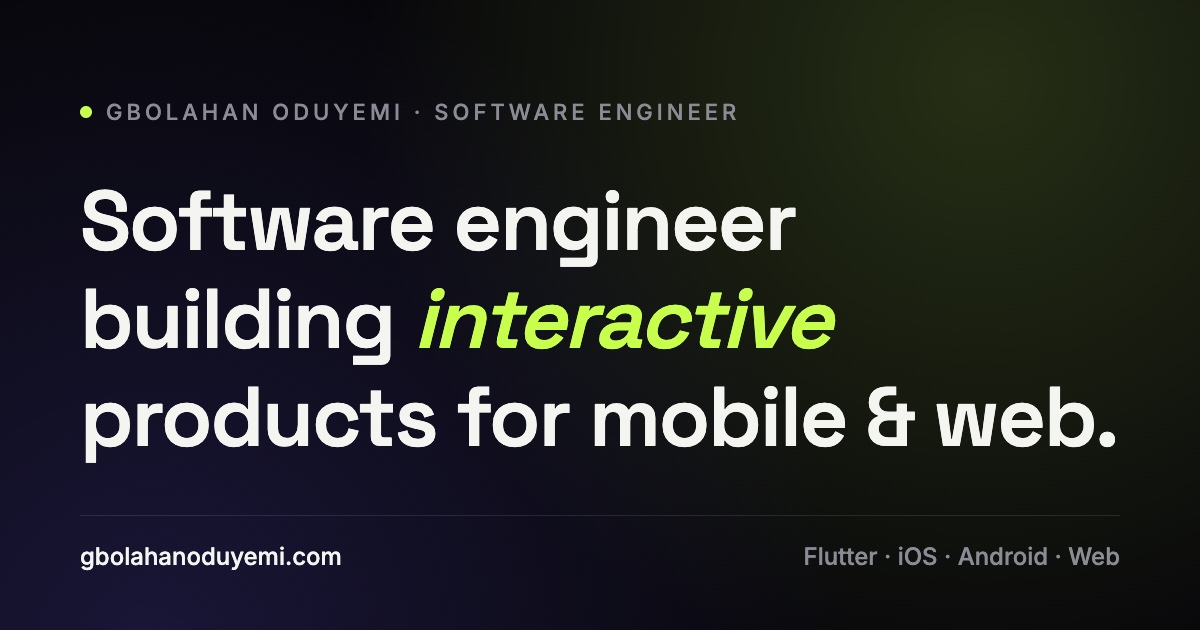
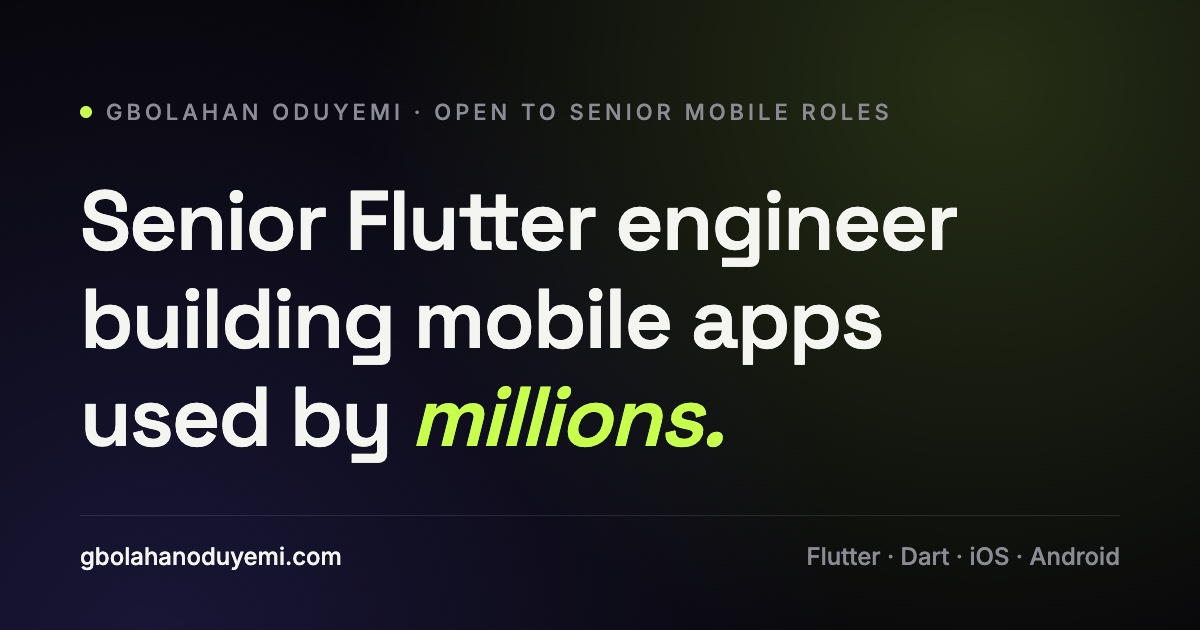
Position as senior Flutter engineer, lead with EE app, add hiring details
- Rework hero, meta and Open Graph copy around senior Flutter/mobile
- Add the EE app (BT Group) as the first project; skip hover preview
  for projects without an image
- Add role, location and working-pattern details plus email and
  LinkedIn buttons to the contact section
- Regenerate share image with the new headline

diff --git a/index.html b/index.html
@@ -7,29 +7,29 @@
     <!-- Lets CSS hide content for reveal animations only when JS runs. -->
     <script>document.documentElement.classList.add("js");</script>
 
-    <title>Gbolahan Oduyemi, Software Engineer</title>
+    <title>Gbolahan Oduyemi, Senior Flutter &amp; Mobile Engineer</title>
     <meta
       name="description"
-      content="Gbolahan Oduyemi is a software engineer at BT Group building interactive products for mobile and web. 6+ years across Flutter, Dart, React, Vue and GraphQL."
+      content="Gbolahan Oduyemi is a senior Flutter and mobile engineer at BT Group, building the EE app (10M+ downloads). 6+ years shipping fintech, telecoms and HR products with Flutter, Dart, Bloc and GraphQL."
     />
     <meta
       name="keywords"
-      content="Gbolahan Oduyemi, software engineer, frontend engineer, mobile developer, Flutter, Swift, TypeScript, React"
+      content="Gbolahan Oduyemi, senior Flutter engineer, mobile engineer, Flutter developer, Dart, iOS, Android, Bloc, Birmingham"
     />
     <link rel="canonical" href="https://gbolahanoduyemi.com/" />
 
     <!-- Open Graph -->
     <meta property="og:type" content="website" />
     <meta property="og:url" content="https://gbolahanoduyemi.com/" />
-    <meta property="og:title" content="Gbolahan Oduyemi, Software Engineer" />
+    <meta property="og:title" content="Gbolahan Oduyemi, Senior Flutter &amp; Mobile Engineer" />
     <meta
       property="og:description"
-      content="Building interactive products for mobile & web."
+      content="Senior Flutter engineer building mobile apps used by millions."
     />
     <meta property="og:image" content="https://gbolahanoduyemi.com/og-image.jpg" />
     <meta property="og:image:width" content="1200" />
     <meta property="og:image:height" content="630" />
-    <meta property="og:image:alt" content="Gbolahan Oduyemi, Software Engineer building interactive products for mobile and web." />
+    <meta property="og:image:alt" content="Gbolahan Oduyemi, senior Flutter engineer building mobile apps used by millions." />
     <meta name="twitter:card" content="summary_large_image" />
     <meta name="twitter:creator" content="@its_gbolahan" />
     <meta name="twitter:image" content="https://gbolahanoduyemi.com/og-image.jpg" />
@@ -78,18 +78,18 @@
       <!-- Hero -->
       <section class="hero wrap" id="hero">
         <p class="hero__eyebrow">
-          <span class="dot"></span> Gbolahan Oduyemi, available for work
+          <span class="dot"></span> Gbolahan Oduyemi, open to senior mobile roles
         </p>
         <h1 class="hero__title" id="hero-title">
-          <span class="reveal-line"><span>Software engineer</span></span>
-          <span class="reveal-line"><span>building <em>interactive</em></span></span>
-          <span class="reveal-line"><span>products for mobile &amp; web.</span></span>
+          <span class="reveal-line"><span>Senior Flutter</span></span>
+          <span class="reveal-line"><span>engineer shipping</span></span>
+          <span class="reveal-line"><span>apps for <em>millions.</em></span></span>
         </h1>
         <div class="hero__meta">
           <p class="hero__intro" data-fade>
-            I'm a <strong>software engineer at BT Group</strong> with 6+ years
-            shipping polished apps across mobile and the web, from fintech to
-            machine learning.
+            I'm a <strong>software engineer at BT Group</strong>, building
+            Flutter features in the EE app (10M+ downloads), with 6+ years
+            shipping fintech, telecoms and HR products.
           </p>
           <a href="#work" class="hero__scroll" data-magnetic>
             <span class="line"></span> Scroll to explore
@@ -107,9 +107,9 @@
           <div class="about__body">
             <p data-fade>
               With 6+ years of hands-on experience using
-              <strong>Flutter, Android, iOS, TypeScript, React and Vue</strong>,
-              I create and implement software across mobile and web, performing
-              equally well solo and in collaborative teams.
+              <strong>Flutter, Dart, Android and iOS</strong>, plus React and
+              Vue on the web, I architect and ship cross-platform apps, performing
+              equally well solo and leading teams.
             </p>
             <p data-fade>
               Today I'm a <strong>Software Engineer at BT Group</strong> in
@@ -170,8 +170,18 @@
           <a href="mailto:gbolahanoduyemi1@gmail.com" data-magnetic>Let's talk →</a>
         </h2>
         <p class="contact__sub">
+          I'm looking for a senior or lead mobile role with Flutter at its core.
           Got a role, a project, or just want to say hi? My inbox is always open.
         </p>
+        <dl class="contact__details">
+          <div><dt>Looking for</dt><dd>Senior / lead mobile (Flutter)</dd></div>
+          <div><dt>Based in</dt><dd>Birmingham, UK</dd></div>
+          <div><dt>Working</dt><dd>Remote, hybrid or on-site</dd></div>
+        </dl>
+        <div class="contact__actions">
+          <a class="btn btn--accent" href="mailto:gbolahanoduyemi1@gmail.com" data-magnetic>Email me</a>
+          <a class="btn" href="https://www.linkedin.com/in/gbolahanoduyemi/" target="_blank" rel="noopener" data-magnetic>Message on LinkedIn</a>
+        </div>
         <div class="socials" id="socials"></div>
       </section>
     </main>

diff --git a/src/data/projects.ts b/src/data/projects.ts
@@ -2,11 +2,19 @@ export interface Project {
   title: string;
   tag: string;
   description: string;
-  image: string;
+  // Logo or screenshot for the hover preview; omit to skip the preview.
+  image?: string;
   link: string;
 }
 
 export const projects: Project[] = [
+  {
+    title: "EE App",
+    tag: "Telecoms · BT Group",
+    description:
+      "Led a Flutter broadband diagnostics tool inside the EE app (10M+ downloads) that lets customers self-diagnose connectivity issues, saving around £1,500 a week in support costs, plus personalised in-app help based on each customer's products.",
+    link: "https://apps.apple.com/gb/app/id567457151",
+  },
   {
     title: "Kyshi",
     tag: "Neobank · Fintech",

diff --git a/src/styles/sections.css b/src/styles/sections.css
@@ -350,6 +350,29 @@
   margin-bottom: 2.5rem;
   font-size: var(--step-1);
 }
+.contact__details {
+  display: flex;
+  flex-wrap: wrap;
+  justify-content: center;
+  gap: 1rem clamp(1.5rem, 4vw, 3.5rem);
+  margin-bottom: 2.5rem;
+}
+.contact__details dt {
+  font-size: var(--step--1);
+  text-transform: uppercase;
+  letter-spacing: 0.1em;
+  color: var(--muted);
+}
+.contact__details dd {
+  color: var(--text);
+}
+.contact__actions {
+  display: flex;
+  flex-wrap: wrap;
+  justify-content: center;
+  gap: 1rem;
+  margin-bottom: 3rem;
+}
 .socials {
   display: flex;
   gap: 1rem;

diff --git a/src/main.ts b/src/main.ts
@@ -18,7 +18,7 @@ function renderWork(): void {
     .map((p, i) => {
       const index = String(i + 1).padStart(2, "0");
       return `
-      <a class="work-item" href="${p.link}" target="_blank" rel="noopener" data-image="${p.image}">
+      <a class="work-item" href="${p.link}" target="_blank" rel="noopener"${p.image ? ` data-image="${p.image}"` : ""}>
         <span class="work-item__index">${index}</span>
         <h3 class="work-item__title">${p.title}</h3>
         <span class="work-item__tag">${p.tag}</span>

diff --git a/src/lib/reveals.ts b/src/lib/reveals.ts
@@ -133,7 +133,8 @@ export function initWorkPreview(): void {
   items.forEach((item) => {
     const src = item.dataset.image;
     item.addEventListener("pointerenter", () => {
-      if (src) img.src = src;
+      if (!src) return;
+      img.src = src;
       gsap.to(preview, { opacity: 1, scale: 1, duration: 0.4, ease: "power3.out" });
     });
     item.addEventListener("pointerleave", () => {
